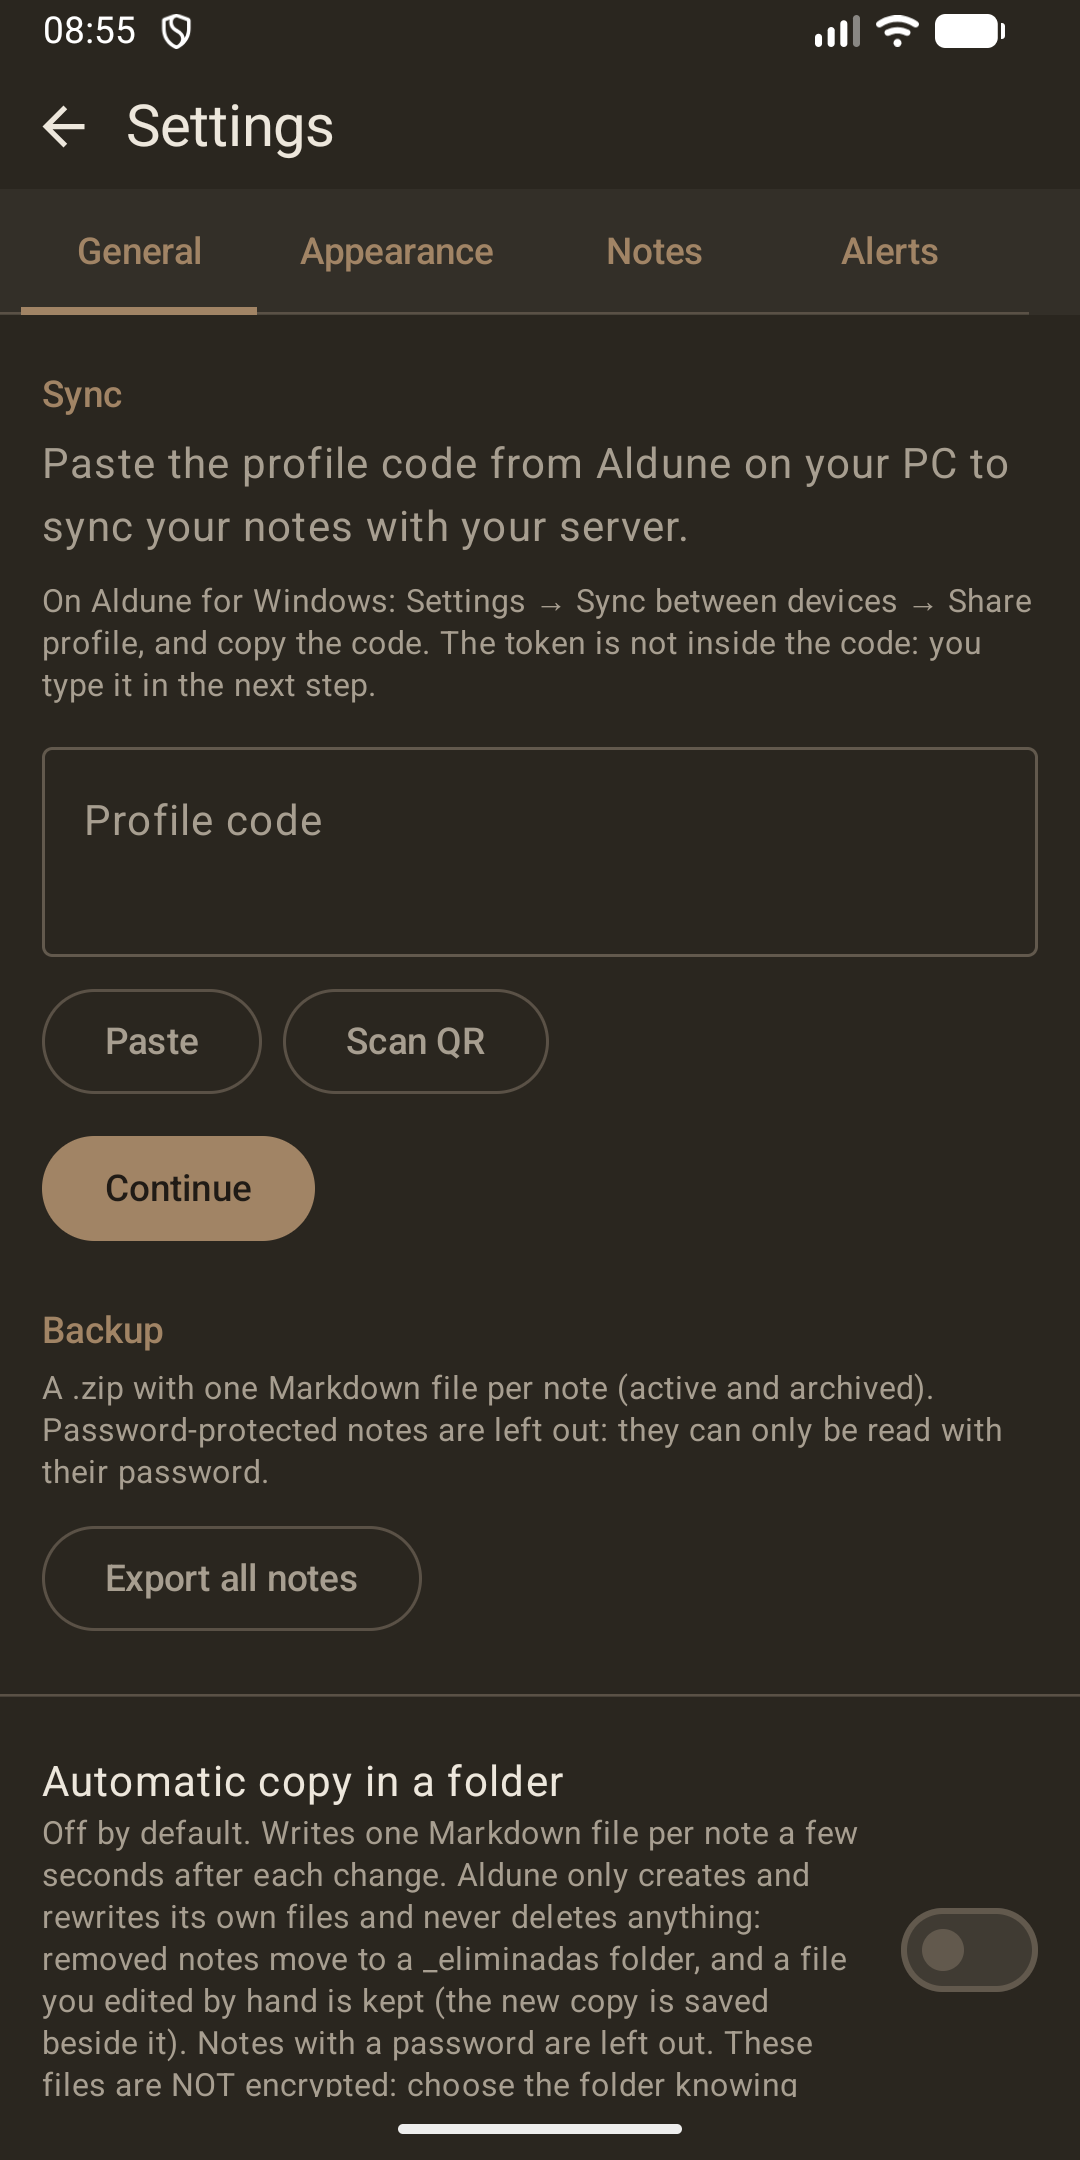
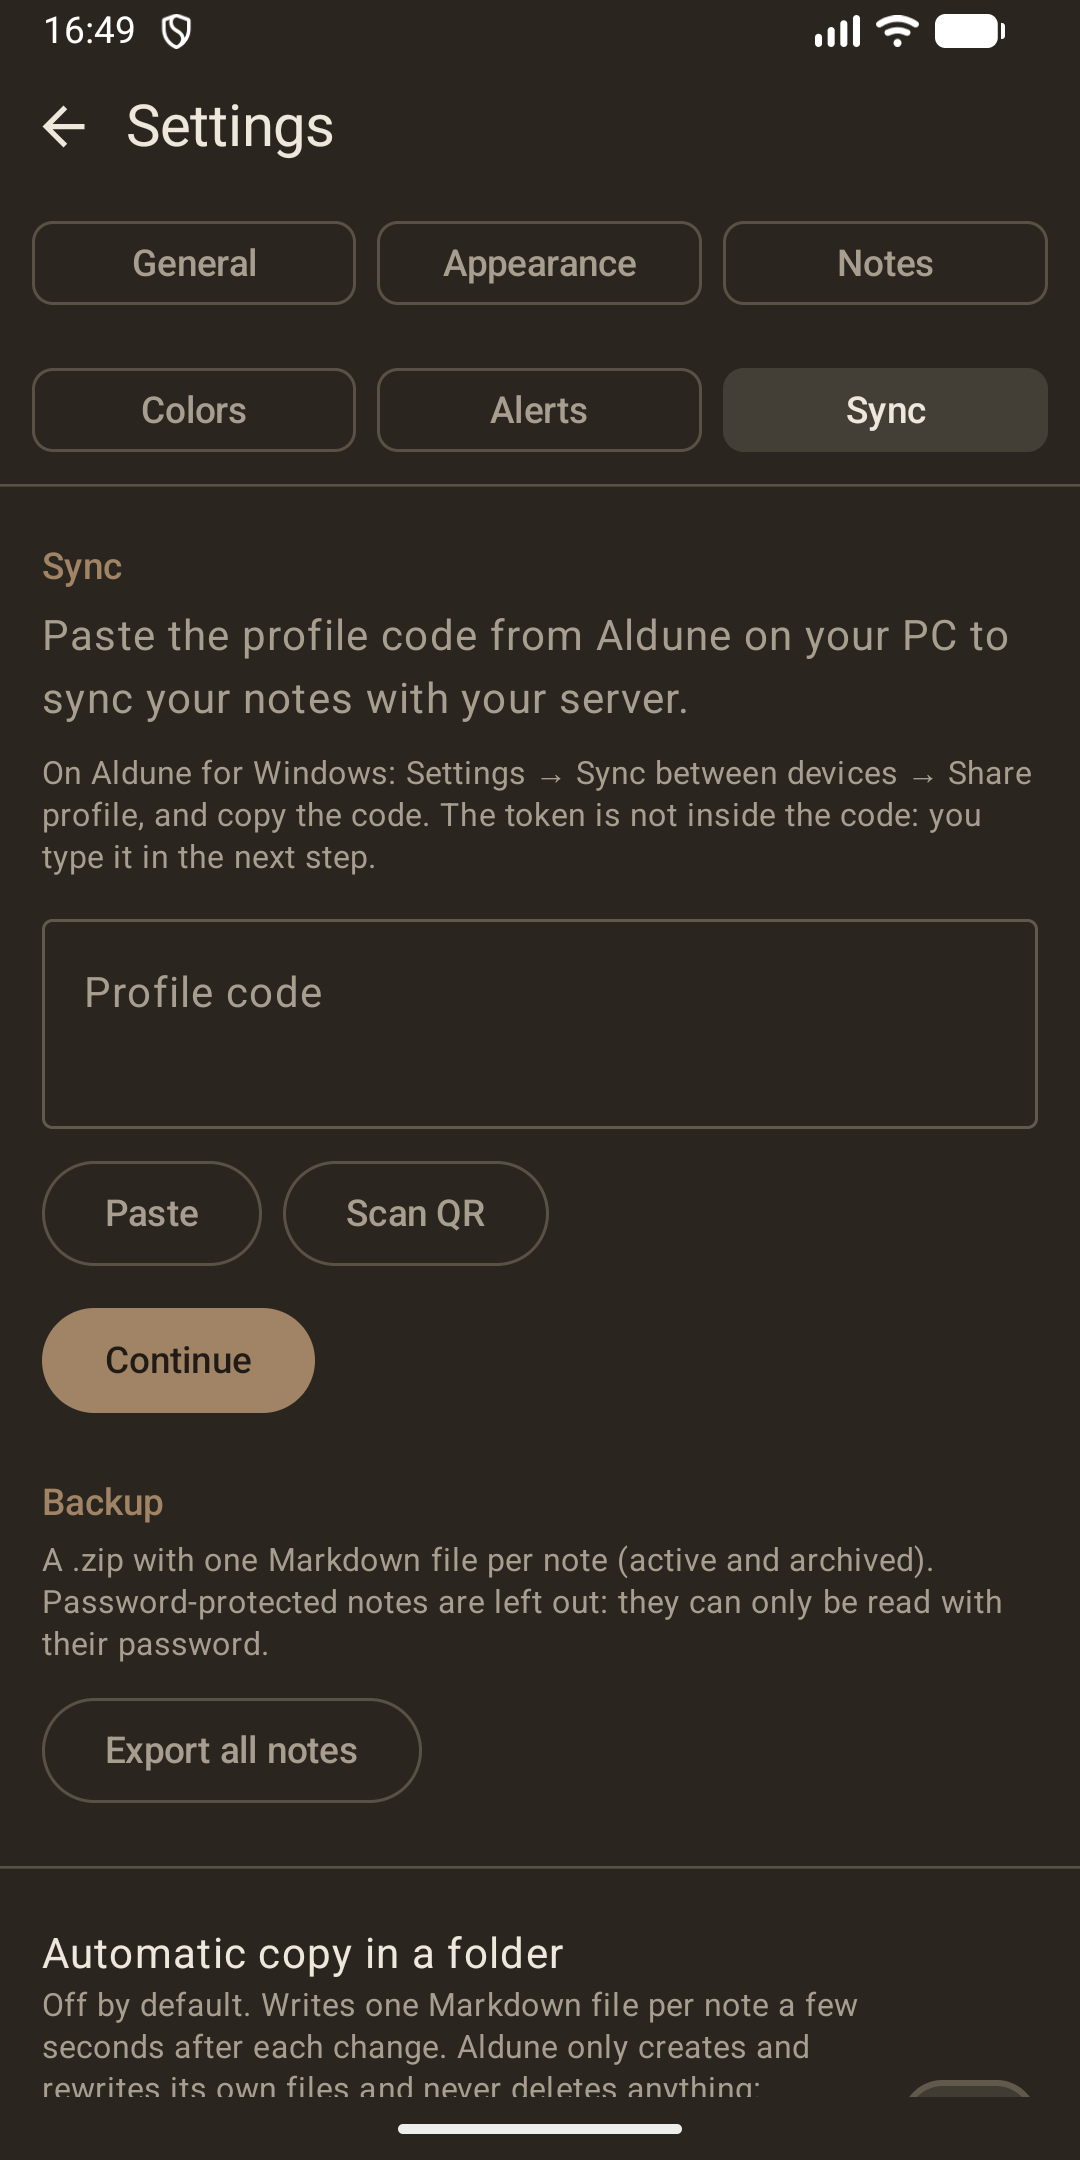
README: GIF y capturas rehechos con la interfaz actual, aspecto cuaderno cuadriculado, Fastlane 4 con las pestanas nuevas de Ajustes y rutas de Ajustes corregidas (Sincronizacion, General)

diff --git a/README.en.md b/README.en.md
@@ -32,12 +32,12 @@ their own. No account, no required cloud, and the content is encrypted.
 
 ### Looks
 
-Besides Dark, Light, Pastel and Midnight there are looks with a character of their own (on Android too). Two of the newest: the **travel notebook** (cream paper with folds) and the **field notebook** (ruled lines and a red margin), each in light and dark.
+Besides Dark, Light, Pastel and Midnight there are looks with a character of their own (on Android too). Three of the newest: the **travel notebook** (cream paper with folds), the **field notebook** (ruled lines and a red margin) and the **graph-paper notebook** (squared sheet with a red margin; coming in the next version), each in light and dark.
 
-| Travel notebook | Field notebook |
-|---|---|
-| ![Travel notebook, light](docs/images/aspecto-libreta-viaje.png) | ![Field notebook, light](docs/images/aspecto-cuaderno-campo.png) |
-| ![Travel notebook, dark](docs/images/aspecto-libreta-viaje-oscuro.png) | ![Field notebook, dark](docs/images/aspecto-cuaderno-campo-oscuro.png) |
+| Travel notebook | Field notebook | Graph-paper notebook |
+|---|---|---|
+| ![Travel notebook, light](docs/images/aspecto-libreta-viaje.png) | ![Field notebook, light](docs/images/aspecto-cuaderno-campo.png) | ![Graph-paper notebook, light](docs/images/aspecto-cuaderno-cuadriculado.png) |
+| ![Travel notebook, dark](docs/images/aspecto-libreta-viaje-oscuro.png) | ![Field notebook, dark](docs/images/aspecto-cuaderno-campo-oscuro.png) | ![Graph-paper notebook, dark](docs/images/aspecto-cuaderno-cuadriculado-oscuro.png) |
 
 ## Install
 
@@ -84,7 +84,7 @@ into an icon you can drag to a screen edge, and opens with one tap without leavi
 
 To sync your phone with your PC and your server:
 
-1. In Aldune for Windows: Settings → Sync between devices → **Share profile**, and copy the code (`aldune-profile-v2:…`).
+1. In Aldune for Windows: Settings → Sync → **Share profile**, and copy the code (`aldune-profile-v2:…`).
 2. Send it to your phone (a message to yourself, for example).
 3. In the Android app: Settings → Sync, paste the code and tap **Continue**.
 4. Type your server's **token**. It is deliberately not inside the code.
@@ -98,7 +98,7 @@ Your notes are stored in `%LOCALAPPDATA%\Aldune`, on your computer. The text of 
 encrypted with AES-256-GCM, and the key is protected by your Windows user. Aldune has no account and
 no server of its own. The only things that leave your computer are sync, if you turn it on (and
 only to the storage you choose), and a daily request to GitHub to tell you about new versions
-(you can turn it off in Settings → About).
+(you can turn it off in Settings → General).
 
 Sync encrypts the content before it leaves your computer: the storage can't read your notes or
 fabricate changes to them. The details, including what it does **not** protect, are in
@@ -114,7 +114,7 @@ Privacy: this program will not transfer any information to other networked syste
 specifically requested by the user or the person installing or operating it. The two exceptions
 are opt-in or can be turned off: sync, which only runs if you set it up and only talks to the
 storage you choose, and the daily check for new versions, which asks GitHub for the list of
-releases, sends nothing about you or your notes, and can be turned off in Settings → About.
+releases, sends nothing about you or your notes, and can be turned off in Settings → General.
 
 ## Build from source
 

diff --git a/README.md b/README.md
@@ -33,12 +33,12 @@ ratón y se abren como ventanas propias. Sin cuenta, sin nube obligatoria, y con
 
 ### Aspectos
 
-Además de Oscuro, Claro, Pastel y Medianoche hay aspectos con carácter propio (también en Android). Dos de los últimos: la **libreta de viaje** (papel crema con pliegues) y el **cuaderno de campo** (renglones y margen rojo), cada uno en claro y en oscuro.
+Además de Oscuro, Claro, Pastel y Medianoche hay aspectos con carácter propio (también en Android). Tres de los últimos: la **libreta de viaje** (papel crema con pliegues), el **cuaderno de campo** (renglones y margen rojo) y el **cuaderno cuadriculado** (hoja de cuadros con margen rojo; sale en la próxima versión), cada uno en claro y en oscuro.
 
-| Libreta de viaje | Cuaderno de campo |
-|---|---|
-| ![Libreta de viaje, clara](docs/images/aspecto-libreta-viaje.png) | ![Cuaderno de campo, claro](docs/images/aspecto-cuaderno-campo.png) |
-| ![Libreta de viaje, oscura](docs/images/aspecto-libreta-viaje-oscuro.png) | ![Cuaderno de campo, oscuro](docs/images/aspecto-cuaderno-campo-oscuro.png) |
+| Libreta de viaje | Cuaderno de campo | Cuaderno cuadriculado |
+|---|---|---|
+| ![Libreta de viaje, clara](docs/images/aspecto-libreta-viaje.png) | ![Cuaderno de campo, claro](docs/images/aspecto-cuaderno-campo.png) | ![Cuaderno cuadriculado, claro](docs/images/aspecto-cuaderno-cuadriculado.png) |
+| ![Libreta de viaje, oscura](docs/images/aspecto-libreta-viaje-oscuro.png) | ![Cuaderno de campo, oscuro](docs/images/aspecto-cuaderno-campo-oscuro.png) | ![Cuaderno cuadriculado, oscuro](docs/images/aspecto-cuaderno-cuadriculado-oscuro.png) |
 
 ## Instalar
 
@@ -87,7 +87,7 @@ haciendo. Es una función del sistema (Aldune no tiene que hacer nada); el nombr
 
 Para sincronizar el móvil con el PC y tu servidor:
 
-1. En Aldune para Windows: Ajustes → Sincronización entre dispositivos → **Compartir perfil**, y copia el código
+1. En Aldune para Windows: Ajustes → Sincronización → **Compartir perfil**, y copia el código
    (`aldune-profile-v2:…`).
 2. Pásalo al móvil (un mensaje a ti mismo, por ejemplo).
 3. En la app de Android: Ajustes → Sincronización, pega el código y pulsa **Continuar**.
@@ -104,7 +104,7 @@ Tus notas se guardan en `%LOCALAPPDATA%\Aldune`, en tu equipo. El texto de cada 
 AES-256-GCM, y la clave está protegida con tu usuario de Windows. Aldune no tiene cuenta ni servidor
 propio. Lo único que sale de tu equipo es la sincronización, si la activas (y solo hacia el
 almacén que tú elijas), y una consulta diaria a GitHub para avisarte de versiones nuevas (se puede
-desactivar en Ajustes → Acerca de).
+desactivar en Ajustes → General).
 
 La sincronización cifra el contenido antes de que salga del equipo: el almacén no puede leer tus
 notas ni fabricar cambios en ellas. El detalle, incluido lo que **no** protege, está en
@@ -120,7 +120,7 @@ Privacidad: este programa no envía información a otros sistemas de la red salv
 expresamente quien lo usa o lo instala. Las dos excepciones se activan o se pueden desactivar: la
 sincronización, que solo funciona si la configuras y solo habla con el almacén que elijas, y la
 consulta diaria de versiones nuevas, que pide a GitHub la lista de versiones, no envía nada tuyo ni
-de tus notas y se desactiva en Ajustes → Acerca de.
+de tus notas y se desactiva en Ajustes → General.
 
 ## Compilar desde el código
 
